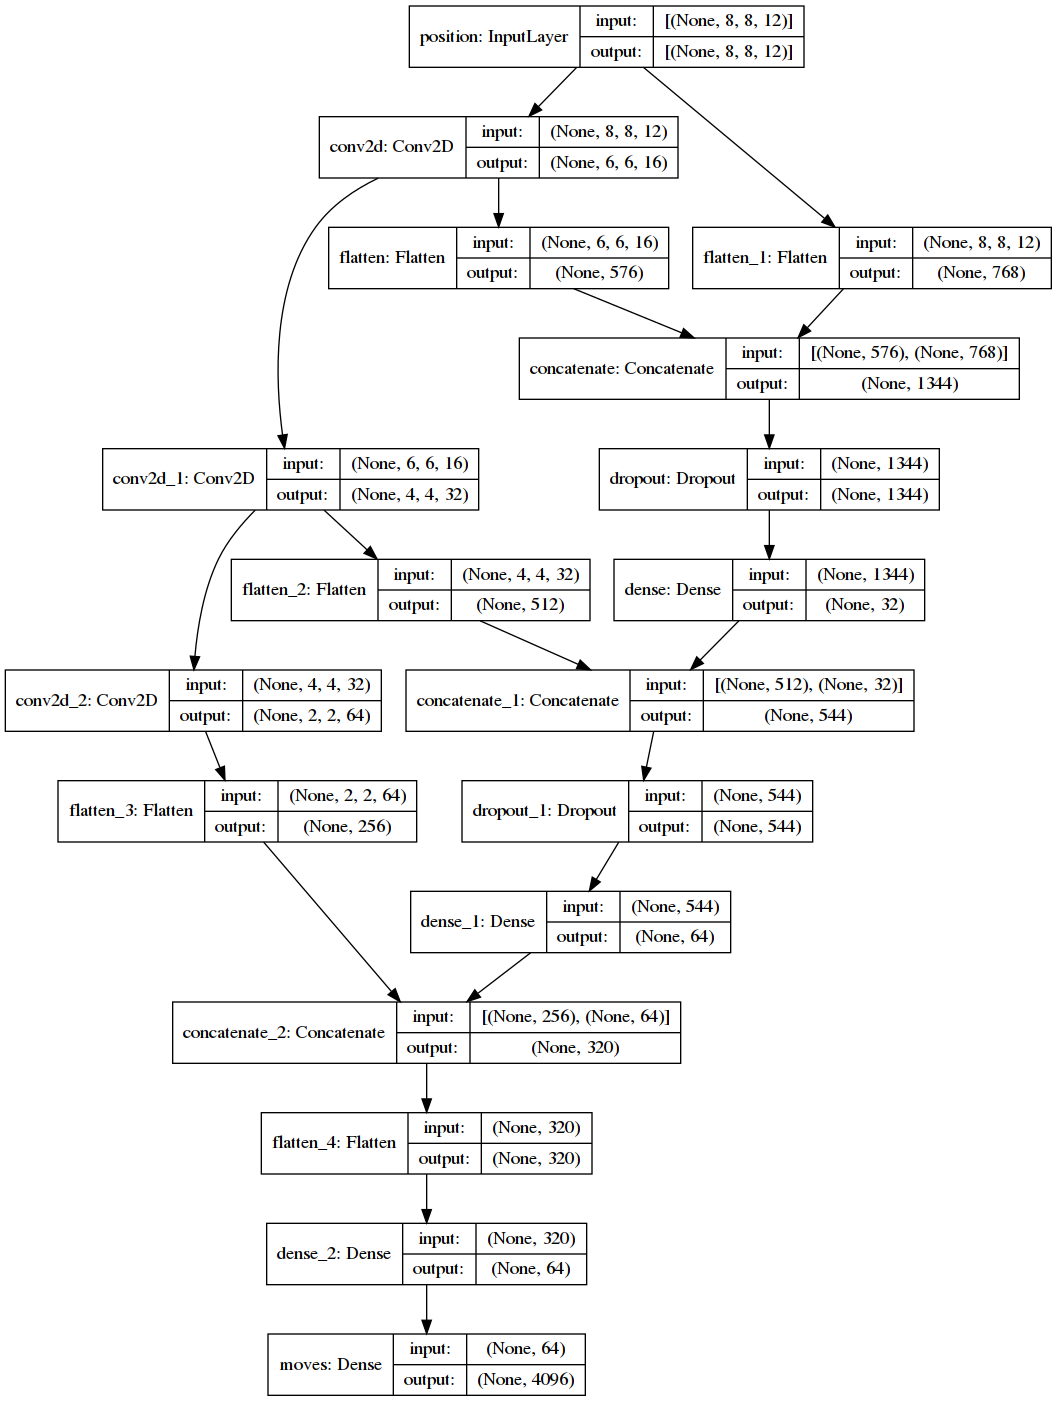
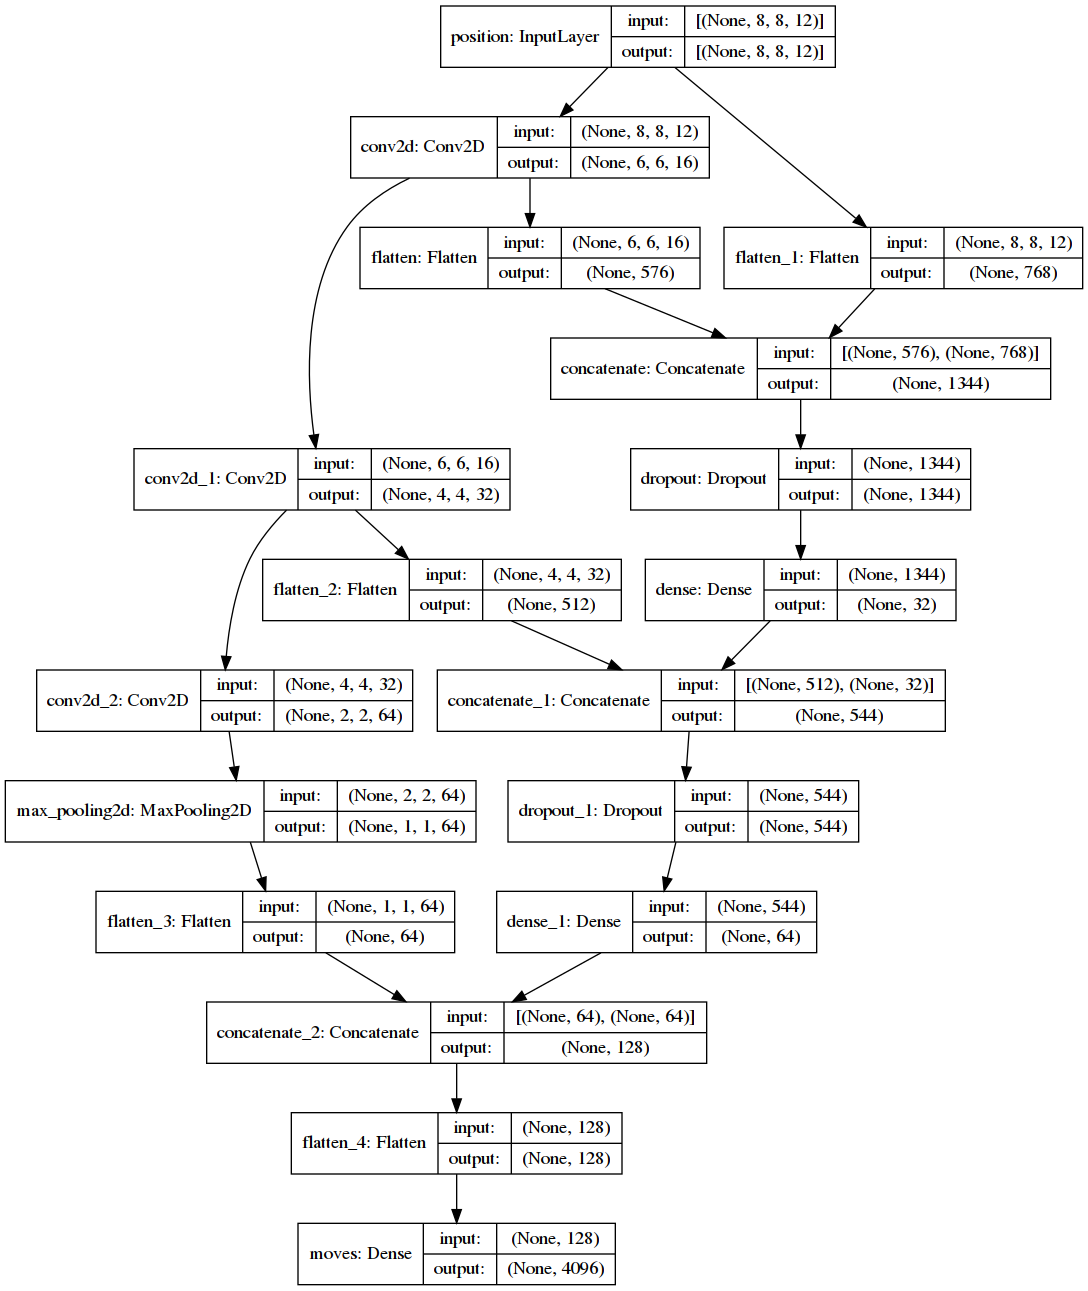
Commit changes

Changed region(s): [[0.0, 0.0, 0.9991, 1.0], [0.6868, 0.093, 0.7181, 0.1239]]

diff --git a/training.py b/training.py
@@ -5,7 +5,6 @@ import random
 import sys
 from typing import Set
 
-import playsound as playsound
 from chess import WHITE, BLACK, Move
 
 from chessnn import BoardOptim, MoveRecord, is_debug
@@ -106,7 +105,7 @@ def play_with_score(pwhite, pblack):
     draw: Set[MoveRecord] = set()
 
     if not is_debug() and winning.dataset:
-        nn.train(winning.dataset | losing.dataset, 20);  # return
+        # nn.train(winning.dataset | losing.dataset, 20);  # return
         pass
 
     rnd = max([x.from_round for x in winning.dataset | losing.dataset]) if winning.dataset else 0
@@ -117,7 +116,7 @@ def play_with_score(pwhite, pblack):
         bmoves = pblack.get_moves()
 
         if result == '1-0':
-            playsound.playsound('/usr/share/games/xboard/sounds/ding.wav')
+            # playsound.playsound('/usr/share/games/xboard/sounds/ding.wav')
             for x, move in enumerate(wmoves):
                 move.eval = 1.0
             for x, move in enumerate(bmoves):
@@ -125,7 +124,6 @@ def play_with_score(pwhite, pblack):
             winning.update(wmoves)
             losing.update(bmoves)
         elif result == '0-1':
-            # playsound.playsound('/usr/share/games/xboard/sounds/pop2.wav')
             for x, move in enumerate(bmoves):
                 move.eval = 1.0
             for x, move in enumerate(wmoves):
@@ -139,6 +137,8 @@ def play_with_score(pwhite, pblack):
                 move.eval = 0.5
             draw.update(wmoves)
             draw.update(bmoves)
+
+        nn.train(wmoves + bmoves, 1)
 
         rnd += 1
         if not (rnd % 96):
@@ -154,60 +154,13 @@ def play_with_score(pwhite, pblack):
             losing.dump_moves()
             dataset = winning.dataset | losing.dataset
 
-            # lst = list(draw)
-            # for x in lst:
-            #    x.forced_eval = 0.5 if not x.ignore else 0  # random.random()
-            # random.shuffle(lst)
-            # dataset.update(lst[:max(len(dataset), 1)])
-            # dataset.update(lst[:max(10 * non_decisive_cnt + 1, len(dataset) // 2000)])
-
             lst = list(dataset)
             random.shuffle(lst)
-            nn.train(lst, 20)
+            # nn.train(lst, 20)
             nn.save("nn.hdf5")
 
             draw = set()
 
-
-def play_per_turn(pwhite, pblack):
-    dataset = DataSet("moves.pkl")
-    dataset.load_moves()
-    if not is_debug() and dataset.dataset:
-        # pwhite.nn.train(dataset.dataset, 20)
-        # nn.save("nn.hdf5")
-        pass
-
-    rnd = max([x.from_round for x in dataset.dataset]) if dataset.dataset else 0
-    while True:
-        result = play_one_game(pwhite, pblack, rnd)
-        wmoves = pwhite.get_moves()
-        bmoves = pblack.get_moves()
-
-        if result == '1-0':
-            for x, move in enumerate(wmoves):
-                move.forced_eval = 0.5 + 0.5 * float(x) / len(wmoves)
-            for x, move in enumerate(bmoves):
-                move.forced_eval = 0.5 - 0.5 * float(x) / len(wmoves)
-        elif result == '0-1':
-            for x, move in enumerate(bmoves):
-                move.forced_eval = 0.5 + 0.5 * float(x) / len(wmoves)
-            for x, move in enumerate(wmoves):
-                move.forced_eval = 0.5 - 0.5 * float(x) / len(wmoves)
-        else:
-            for x, move in enumerate(bmoves):
-                move.forced_eval = 0.0
-            for x, move in enumerate(wmoves):
-                move.forced_eval = 0.0
-
-        moves = wmoves + bmoves
-        dataset.update(moves)
-
-        rnd += 1
-        if not (rnd % 960) or not (rnd % 96):
-            dataset.dump_moves()
-
-            nn.train(dataset.dataset, 10)
-            nn.save("nn.hdf5")
 
 
 if __name__ == "__main__":
@@ -219,11 +172,10 @@ if __name__ == "__main__":
 
     nn = NNChess("nn.hdf5")
     white = Player("Lisa", WHITE, nn)
-    #black = Player("Karen", BLACK, nn)
+    black = Player("Karen", BLACK, nn)
     black = Stockfish(BLACK)
 
     try:
-        # play_per_turn(white, black)
         play_with_score(white, black)
     finally:
         if isinstance(black, Stockfish):

diff --git a/chessnn/player.py b/chessnn/player.py
@@ -25,6 +25,7 @@ class Player(object):
     def makes_move(self, in_round):
         moverec: MoveRecord
         moverec, move, geval = self._choose_best_move()
+        moverec.from_round = in_round
 
         self._log_move(moverec, move)
 
@@ -43,7 +44,7 @@ class Player(object):
     def _choose_best_move(self):
         pos = self.board.get_position() if self.color == chess.WHITE else self.board.mirror().get_position()
 
-        moverec = self._get_moverec(pos, chess.Move.null())
+        moverec = MoveRecord(pos, chess.Move.null(), self.board.halfmove_clock / 100.0)
         scores4096, = self.nn.inference([moverec])  # , geval
         geval = [0]
         move = self._scores_to_move(scores4096)
@@ -51,11 +52,6 @@ class Player(object):
         moverec.to_square = move.to_square
         moverec.forced_eval = geval[0]
         return moverec, move, geval[0]
-
-    def _get_moverec(self, pos, move):
-        fifty = self.board.halfmove_clock / 100.0
-        moverec = MoveRecord(pos, move, fifty)
-        return moverec
 
     def _scores_to_move(self, scores_restored):
         cnt = 0
@@ -113,7 +109,15 @@ class Stockfish(Player):
 
         pos = self.board.get_position() if self.color == chess.WHITE else self.board.mirror().get_position()
 
-        self._log_move(MoveRecord(pos, result.move, self.board.halfmove_clock / 100.0), result.move, )
+        record = MoveRecord(pos, result.move, self.board.halfmove_clock / 100.0)
+        if result.info['score'].is_mate():
+            record.forced_eval = 1
+        elif not result.info['score'].relative.cp:
+            record.forced_eval = 0
+        else:
+            record.forced_eval = -1 / abs(result.info['score'].relative.cp) + 1
+
+        self._log_move(record, result.move, )
 
         self.board.push(result.move)
 

diff --git a/chessnn/nn.py b/chessnn/nn.py
@@ -52,7 +52,8 @@ class NN(object):
         inputs, outputs = self._data_to_training_set(data, False)
 
         logging.info("Starting to learn...")
-        cbs = [callbacks.TensorBoard('/tmp/tensorboard/%d' % time.time())] if epochs > 1 else []
+        cbpath = '/tmp/tensorboard/%d' % (time.time() if epochs > 1 else 0)
+        cbs = [callbacks.TensorBoard(cbpath)]
         res = self._model.fit(inputs, outputs,  # sample_weight=np.array(sample_weights),
                               validation_split=0.1 if (validation_data is None and epochs > 1) else 0.0, shuffle=True,
                               callbacks=cbs, verbose=2 if epochs > 1 else 0,
@@ -103,15 +104,16 @@ class NNChess(NN):
         dense2 = layers.Dense(64, activation=activ_hidden, kernel_regularizer=reg)(main2)
 
         conv3 = layers.Conv2D(64, kernel_size=(3, 3), activation=activ_hidden, kernel_regularizer=reg)(conv2)
-        main3 = layers.concatenate([layers.Flatten()(conv3), dense2])
+        pool1 = layers.MaxPool2D()(conv3)
+        main3 = layers.concatenate([layers.Flatten()(pool1), dense2])
         # main3 = layers.Dropout(0.1)(main3)
 
         main3 = layers.Flatten()(main3)
 
         # main3 = layers.concatenate([main3, flags])
-        dense3 = layers.Dense(64, activation=activ_hidden, kernel_regularizer=reg)(main3)
+        # dense3 = layers.Dense(64, activation=activ_hidden, kernel_regularizer=reg)(main3)
 
-        main = dense3
+        main = main3
         out_moves = layers.Dense(4096, activation=activ_out, name="moves")(main)
         # out_eval = layers.Dense(2, activation=activ_out, name="eval")(main)
 

diff --git a/uci.py b/uci.py
@@ -17,7 +17,7 @@ if __name__ == "__main__":
     try:
         board = BoardOptim.from_chess960_pos(random.randint(0, 959))
         nn = NNChess("nn.hdf5")
-        white = Player(WHITE, nn)
+        white = Player("Lisa", WHITE, nn)
         white.board = board
 
         while not board.is_game_over():
